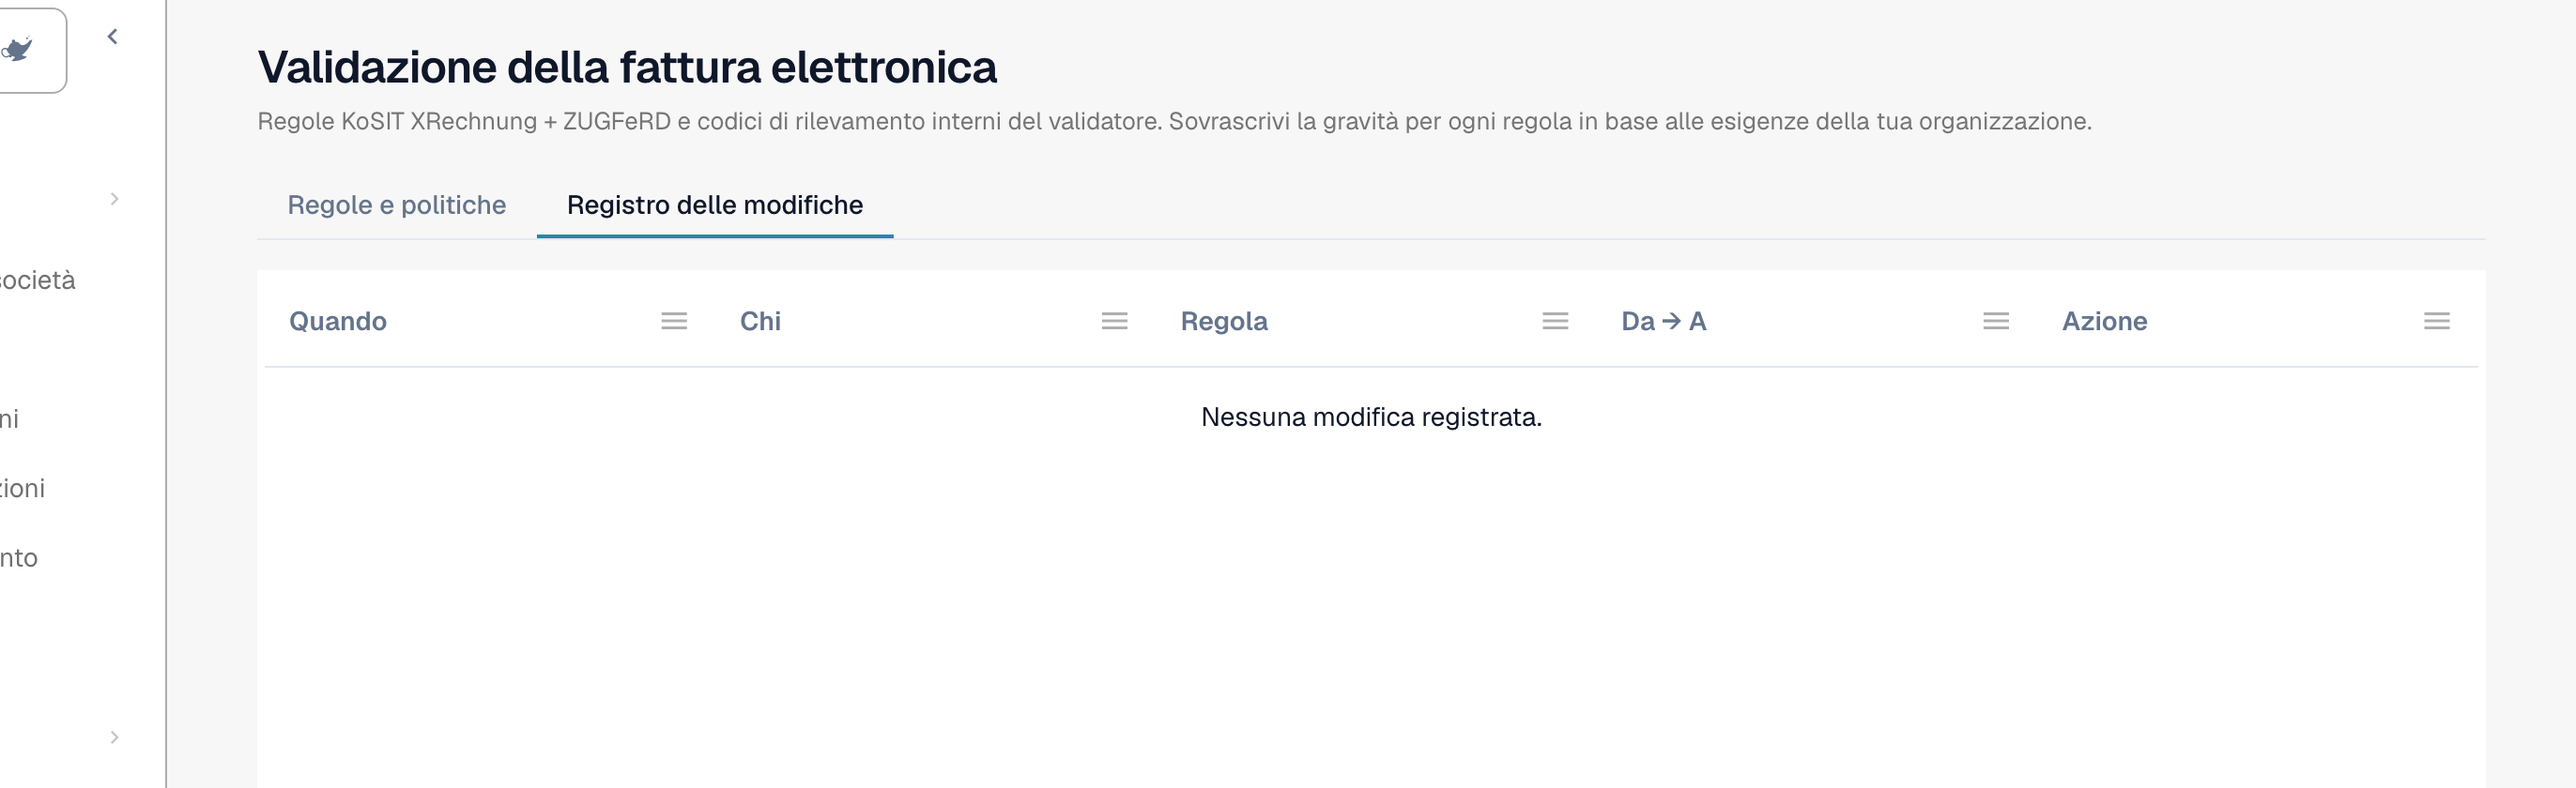
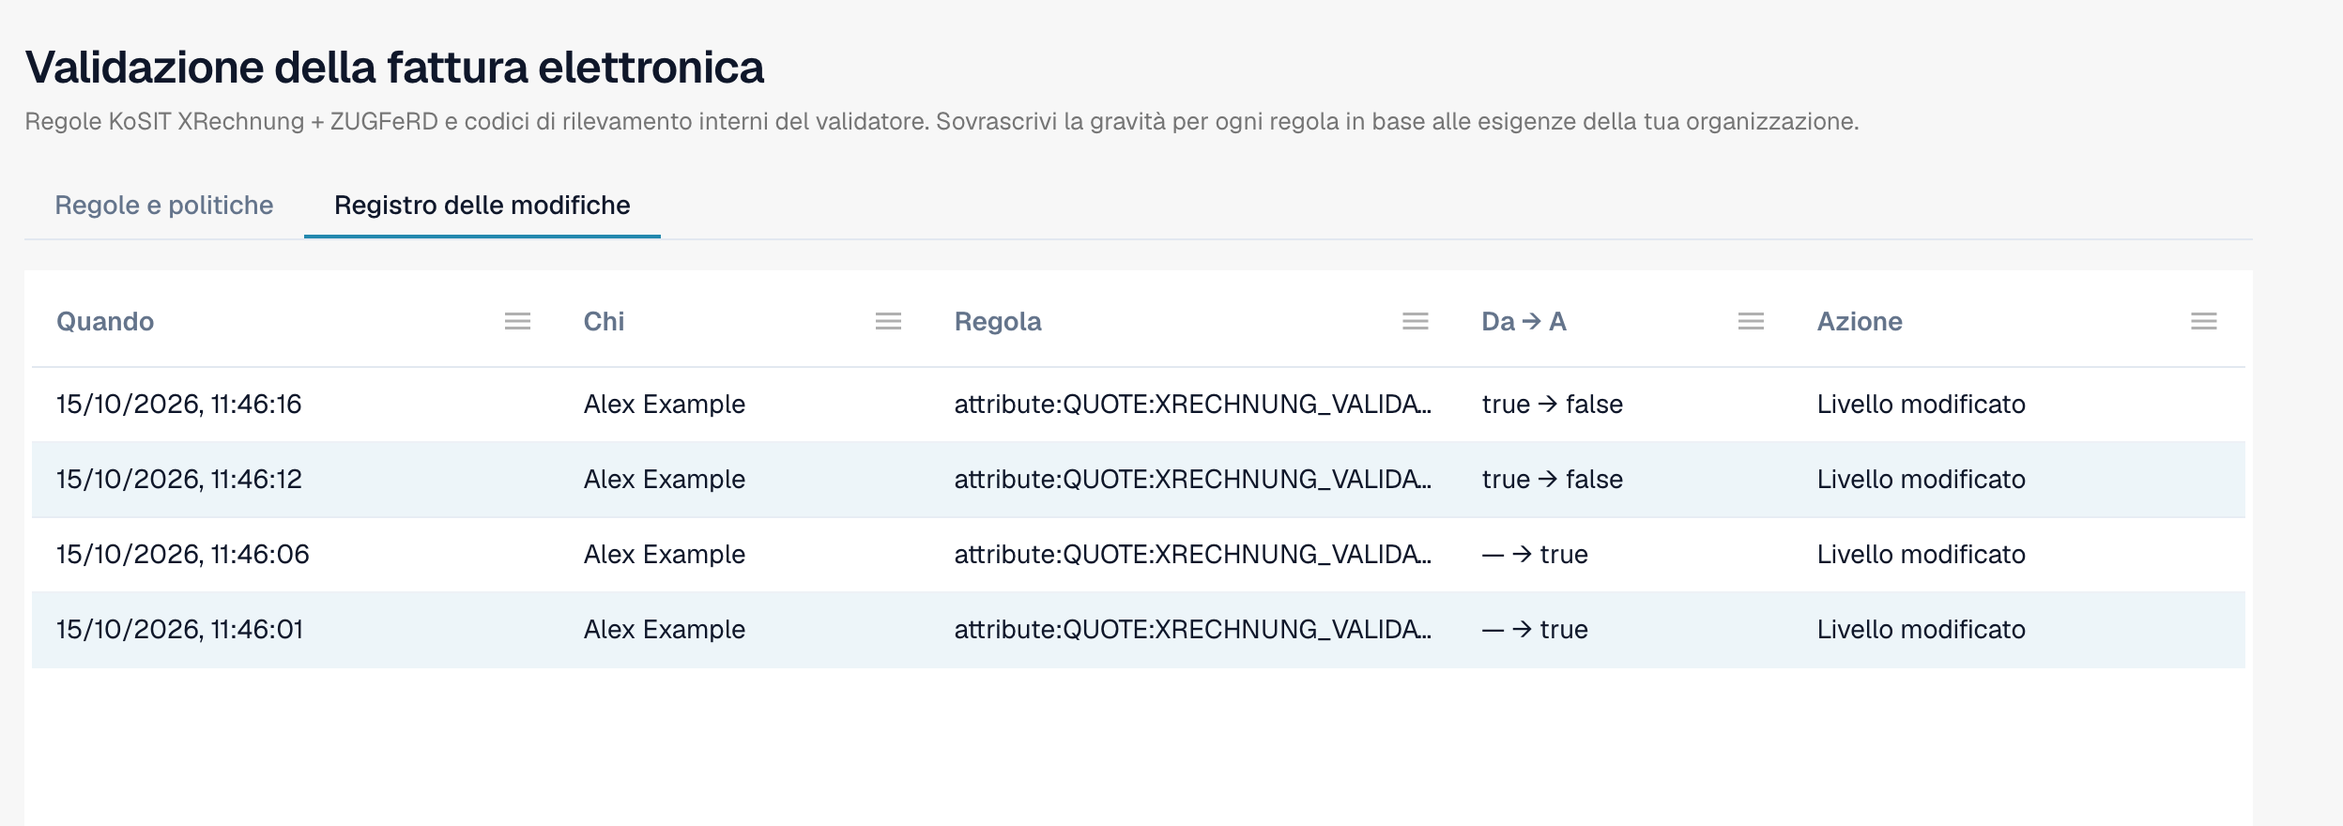
docs(it): error screen page and change log screenshot (CORE-6410)
Claude-Session: https://claude.ai/code/session_01KNaeuhcTr3YU6A9NeVaSGs

diff --git a/readme/administration-and-setup/settings/document-processing/e-documents/validation-error-screen.md b/readme/administration-and-setup/settings/document-processing/e-documents/validation-error-screen.md
@@ -1,0 +1,52 @@
+# La schermata di errore per una fattura elettronica rifiutata
+
+Quando carichi una fattura elettronica errata, DocBits non la perde. Il documento riceve lo stato **Errore** e la schermata di errore ti dice cosa non va, dove e cosa fare dopo. Questa pagina mostra due esempi: un file XML non ben formato e una fattura che viola una regola aziendale.
+
+> Una fattura riceve lo stato **Errore** solo quando la validazione è **attiva** e **bloccante** per il suo tipo di documento. Vedi [Validazione per ogni tipo di documento](validation-per-document-type.md).
+
+## Esempio 1: il file XML è danneggiato
+
+Un fornitore invia un file XML in cui un tag di chiusura non corrisponde al tag di apertura. Il file non può essere letto, quindi DocBits si ferma al primo controllo, **L1 · Ben formata**.
+
+<figure><img src="../../../../.gitbook/assets/einvoice-error-xml-malformed-it.png" alt="La schermata di errore per un file XML non ben formato: l'XML a sinistra con la riga errata evidenziata, la spiegazione a destra"><figcaption><p>La schermata di errore per un file XML danneggiato. La riga errata è evidenziata nell'XML. File di esempio con dati fittizi.</p></figcaption></figure>
+
+La schermata ha due lati:
+
+* **A sinistra: il file XML.** DocBits mostra il file con i numeri di riga. La riga con il problema è evidenziata in rosso. Usa i pulsanti sopra il file per copiare l'XML o aprirlo in una nuova scheda.
+* **A destra: la spiegazione.** La scheda **Rifiutato da** indica il controllo che ha fermato il file (qui **L1 · Ben formata**) e il codice della regola (qui `XML-PARSE`). Sotto vedi un titolo in linguaggio semplice (*XML is not well-formed*), una breve spiegazione e il blocco **Passo successivo**.
+
+Seleziona **Visualizza i dettagli di convalida** per aprire il [rapporto di convalida](validation-report.md) completo.
+
+<figure><img src="../../../../.gitbook/assets/einvoice-report-xml-malformed-it.png" alt="Il rapporto di convalida del file XML danneggiato con il risultato XML-PARSE"><figcaption><p>Il rapporto del file danneggiato: un errore al livello 1 Sintassi, con il messaggio tecnico e la posizione</p></figcaption></figure>
+
+Il rapporto indica la posizione esatta (qui riga 5, colonna 4081) e riporta il messaggio tecnico del parser XML. Seleziona **Mostra in XML** per passare a quella riga. L'indicazione **Come risolvere** ti dice di chiedere al mittente un file corretto.
+
+## Esempio 2: la fattura viola una regola aziendale
+
+L'XML è corretto, ma manca un campo obbligatorio. Ad esempio, il venditore non può essere identificato perché non è presente alcun identificativo del venditore, identificativo di registrazione o identificativo IVA (regola `BR-CO-26`).
+
+<figure><img src="../../../../.gitbook/assets/einvoice-error-view-it.png" alt="La schermata di errore per una fattura che viola una regola aziendale"><figcaption><p>La schermata di errore per un errore di regola aziendale: il livello <strong>L3 · Regole aziendali</strong>, il codice della regola e un passo successivo</p></figcaption></figure>
+
+Qui la scheda indica il livello **L3 · Regole aziendali** e il codice `BR-CO-26`. Il rapporto elenca tutti i risultati della fattura, vedi [Rapporto di convalida](validation-report.md).
+
+## I pulsanti sotto la scheda
+
+| Pulsante | Cosa fa |
+| --- | --- |
+| **Riavvia l'elaborazione** | Esegue di nuovo l'elaborazione del documento, ad esempio dopo aver modificato un'impostazione. Il controllo usa le impostazioni attuali. |
+| **Visualizza DocFlow** | Mostra il workflow del documento. |
+| **Copia dettagli** | Copia i dettagli dell'errore, ad esempio per un messaggio al tuo amministratore. |
+| **Creare un biglietto** | Apre un ticket di supporto con i dettagli dell'errore. |
+
+Seleziona **Mostra i dettagli tecnici** sulla scheda per le informazioni tecniche grezze.
+
+## Cosa fare dopo
+
+* **Errori:** chiedi al mittente una fattura corretta oppure [rifiuta il documento](validation-next-step-and-reject.md). Una fattura corretta è un nuovo documento.
+* **Solo avvertenze:** il documento non è bloccato. Puoi continuare.
+
+## Pagine correlate
+
+* [Rapporto di convalida](validation-report.md): tutti i risultati, livello per livello.
+* [Passo successivo e rifiuto di un documento](validation-next-step-and-reject.md)
+* [Validazione per ogni tipo di documento](validation-per-document-type.md): attiva la validazione e imposta il blocco.

diff --git a/readme/administration-and-setup/settings/document-processing/e-documents/validation-rules.md b/readme/administration-and-setup/settings/document-processing/e-documents/validation-rules.md
@@ -14,5 +14,6 @@ La pagina **Validazione della fattura elettronica** (**Impostazioni → Document
 | [Gravità delle regole](validation-rule-severities.md) | La tabella delle regole: cambia la gravità di ogni regola per la tua organizzazione. | Amministratori dell'organizzazione |
 | [Validazione per ogni tipo di documento](validation-per-document-type.md) | Attiva la validazione (**Abilitato**) e decidi se un controllo non superato blocca il documento (**Blocco**). Ogni modifica richiede una conferma. | Amministratori dell'organizzazione |
 | [Registro delle modifiche](validation-change-log.md) | Ogni modifica delle impostazioni: quando, chi, quale regola, da → a. | Amministratori dell'organizzazione |
+| [La schermata di errore per una fattura elettronica rifiutata](validation-error-screen.md) | Cosa vedi quando carichi un XML errato: la spiegazione, la riga errata e il passo successivo. | Chiunque elabora fatture |
 | [Rapporto di convalida](validation-report.md) | Cosa vede un utente quando una fattura non supera il controllo: i risultati in linguaggio semplice. Si apre dal documento, non da questa pagina. | Chiunque elabora fatture |
 | [Passo successivo e rifiuto di un documento](validation-next-step-and-reject.md) | Cosa fare dopo aver letto il rapporto, il download del rapporto e **Rifiuta il documento**. | Chiunque elabora fatture |

diff --git a/readme/administration-and-setup/settings/document-processing/e-documents/validation-report.md b/readme/administration-and-setup/settings/document-processing/e-documents/validation-report.md
@@ -1,6 +1,6 @@
 # Rapporto di convalida
 
-Quando DocBits rifiuta una fattura elettronica, puoi leggere esattamente il perché. Il **rapporto di convalida** elenca ogni risultato in linguaggio semplice, ti dice cosa correggere e mostra il passo successivo. Lo apri dal documento, non dalle impostazioni.
+Quando DocBits rifiuta una fattura elettronica, puoi leggere esattamente il perché. Il **rapporto di convalida** elenca ogni risultato in linguaggio semplice, ti dice cosa correggere e mostra il passo successivo. Lo apri dal documento, non dalle impostazioni. La schermata in cui lo trovi è descritta in [La schermata di errore per una fattura elettronica rifiutata](validation-error-screen.md).
 
 Questa pagina è per chi elabora le fatture. Gli amministratori impostano le regole nella pagina [Validazione della fattura elettronica](validation-rules.md) e scelgono per ogni tipo di documento se un controllo non superato blocca la fattura, vedi [Validazione per ogni tipo di documento](validation-per-document-type.md).
 

diff --git a/readme/SUMMARY.md b/readme/SUMMARY.md
@@ -441,6 +441,7 @@
         * [Gravità delle regole](administration-and-setup/settings/document-processing/e-documents/validation-rule-severities.md)
         * [Validazione per ogni tipo di documento](administration-and-setup/settings/document-processing/e-documents/validation-per-document-type.md)
         * [Registro delle modifiche](administration-and-setup/settings/document-processing/e-documents/validation-change-log.md)
+        * [La schermata di errore per una fattura elettronica rifiutata](administration-and-setup/settings/document-processing/e-documents/validation-error-screen.md)
         * [Rapporto di convalida](administration-and-setup/settings/document-processing/e-documents/validation-report.md)
         * [Passo successivo e rifiuto di un documento](administration-and-setup/settings/document-processing/e-documents/validation-next-step-and-reject.md)
       * [Instradamento delle notifiche](administration-and-setup/settings/document-processing/e-documents/notification-routing.md)

diff --git a/readme/administration-and-setup/settings/document-processing/e-documents/validation-change-log.md b/readme/administration-and-setup/settings/document-processing/e-documents/validation-change-log.md
@@ -4,7 +4,7 @@ Il **Registro delle modifiche** registra ogni modifica delle impostazioni di val
 
 Apri la scheda **Registro delle modifiche** accanto a **Regole e politiche**.
 
-<figure><img src="../../../../.gitbook/assets/einvoice-validation-change-log-it.png" alt="La scheda Registro delle modifiche con le colonne Quando, Chi, Regola, Da → A e Azione"><figcaption><p>Il registro delle modifiche di un'organizzazione senza modifiche</p></figcaption></figure>
+<figure><img src="../../../../.gitbook/assets/einvoice-validation-change-log-it.png" alt="La scheda Registro delle modifiche con le colonne Quando, Chi, Regola, Da → A e Azione"><figcaption><p>Il registro delle modifiche con quattro voci di esempio. Il nome dell'utente è sostituito da un nome di esempio.</p></figcaption></figure>
 
 | Colonna | Cosa mostra |
 | --- | --- |
